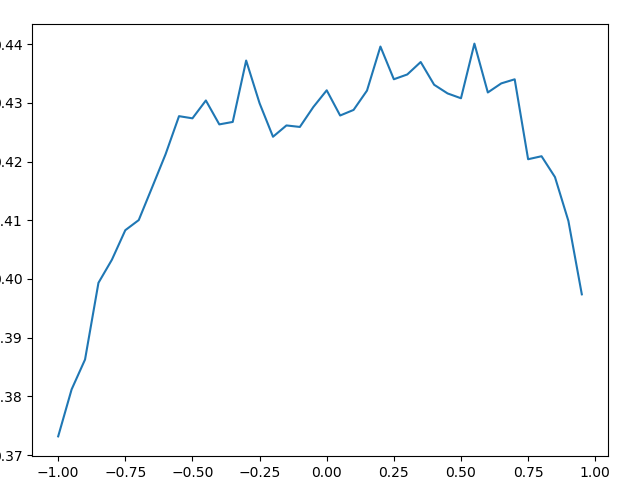
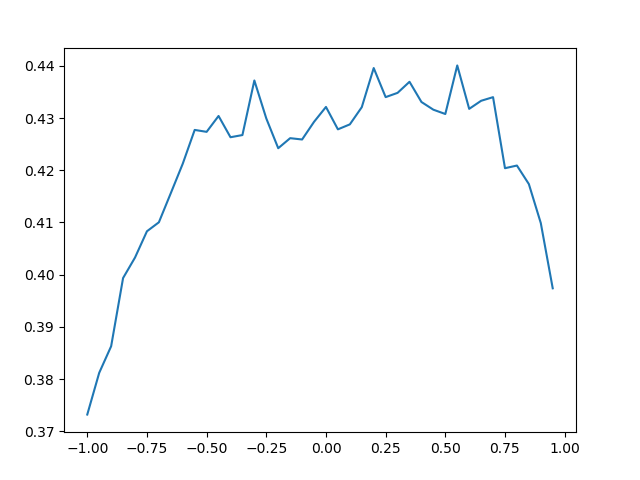
fixed pics

diff --git a/bin/pgen.py b/bin/pgen.py
@@ -9,17 +9,22 @@ if __name__ == "__main__":
             obv = df.columns[-1]
 
             fig = plt.figure()
-            axes = fig.add_axes([0.05,0.05,0.9,0.9])
+            axes = fig.add_axes([0.1,0.1,0.8,0.8])
             axes.plot(df[obv], df.result)
             fig.savefig("pics/" + fname[:-4]+"_Res.png")
+            fig.close()
             fig = plt.figure()
-            axes = fig.add_axes([0.05,0.05,0.9,0.9])
+            
+            axes = fig.add_axes([0.1,0.1,0.8,0.8])
             axes.plot(df[obv], df.std_err)
             fig.savefig("pics/" + fname[:-4]+"_Err.png")
+            fig.close()
             fig = plt.figure()
-            axes = fig.add_axes([0.05,0.05,0.9,0.9])
+            
+            axes = fig.add_axes([0.1,0.1,0.8,0.8])
             axes.plot(df[obv], df.time_usage)
             fig.savefig("pics/" + fname[:-4]+"_Tme.png")
+            fig.close()
         except Exception as e:
             print(e)
             pass
